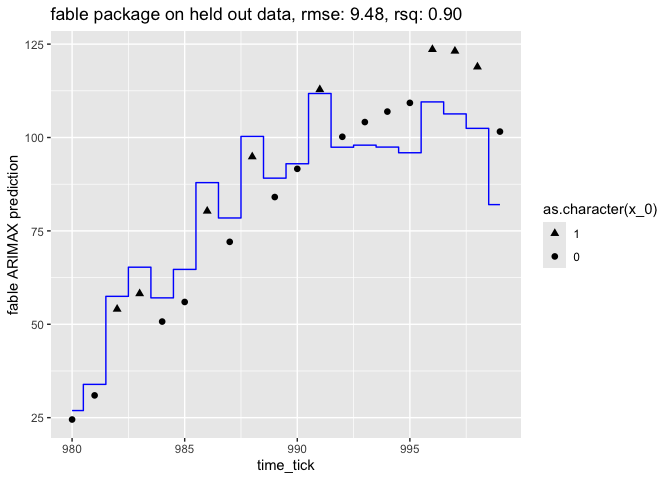
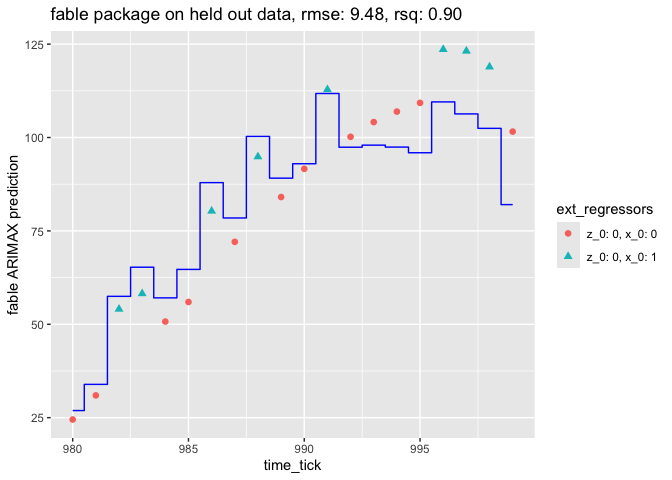
more ARIMA notes

diff --git a/TimeSeries/ts_example.md b/TimeSeries/ts_example.md
@@ -73,7 +73,12 @@ General Fable formulation:
 B)<sup>d</sup> y<sub>t</sub> = c + (1 - θ<sub>1</sub> B - … -
 θ<sub>q</sub> B<sup>q</sup>) ε<sub>t</sub> </code>
 
-where <code>c = mean(1 - φ<sub>1</sub> - … - φ<sub>p</sub>)</code>.
+where <code>B</code> is the shift operator such that <code>B
+u<sub>t</sub> = u<sub>t-1</sub></code>, and <code>c = mean(1 -
+φ<sub>1</sub> - … - φ<sub>p</sub>)</code>. We solve for
+<code>ε<sub>t</sub></code> being small. We very much prefer calling the
+<code>ε<sub>t</sub></code> “the external shocks”, and not calling them
+“errors.”
 
 In our `pdq(2, 0, 2)` case this specializes to:
 
@@ -81,13 +86,13 @@ In our `pdq(2, 0, 2)` case this specializes to:
 y<sub>t</sub> = c + (1 - θ<sub>1</sub> B - θ<sub>2</sub> B<sup>2</sup>)
 ε<sub>t</sub> </code>
 
-And knowing this is “regression with ARIMA residuals” when we add the
+And knowing this is “regression with ARIMA residuals”, when we add the
 external regressors this should be:
 
 <code> (1 - φ<sub>1</sub> B - φ<sub>2</sub> B<sup>2</sup>)</sup>
-(y<sub>t</sub> - β<sub>0</sub> - β<sub>x</sub> x - β<sub>z</sub> z) =
-c + (1 - θ<sub>1</sub> B - θ<sub>2</sub> B<sup>2</sup>) ε<sub>t</sub>
-</code>
+(y<sub>t</sub> - β<sub>0</sub> - β<sub>x</sub> x<sub>t</sub> -
+β<sub>z</sub> z<sub>t</sub>) = c + (1 - θ<sub>1</sub> B - θ<sub>2</sub>
+B<sup>2</sup>) ε<sub>t</sub> </code>
 
 Given the `pdq(2, 0, 2)` specification, the modeling system then fits
 for <code>φ, β, θ</code>. Note: I agree with the Prophet authors that
@@ -104,13 +109,13 @@ recurrence equations (i.e. taking that choice out of our hands). We can
 specify modeling the total, but not unobserved sub-populations of the
 system.
 
-Frankly ARIMAX/SARIMAX appears to be a false path for business modelers.
-Time series research didn’t actually stop at or actually consolidate on
-this terminology. Instead, transfer function methods and other more
-further developed systems are studied. Roughly: the scientific community
-is well served by ARIMAX. The research community moved on from ARIMAX.
-And, the business community *wishes* ARIMAX was in fact the dominant
-method, as it is the dominant software offered.
+Frankly ARIMAX/SARIMAX can be a false path for business modelers. Time
+series research didn’t actually stop at or actually consolidate on this
+terminology. Instead, transfer function methods and other more further
+developed systems are studied. Roughly: the scientific community is well
+served by ARIMAX. The research community moved on from ARIMAX. And, the
+business community *wishes* ARIMAX was in fact the dominant method, as
+it is the dominant software offered.
 
 An odd point in this direction is: ARIMA prediction of tides. In fact
 tides are formed by external regressors: the gravitational attraction of
@@ -205,8 +210,7 @@ rmse <- sqrt(mean((d_test[['y']] - d_test[['fable ARIMAX prediction']])**2))
     mapping=aes(x=time_tick)
   )
   + geom_step(mapping=aes(y=`fable ARIMAX prediction`), direction='mid', color='blue')
-  + geom_point(mapping=aes(y=y, shape=as.character(x_0)), size=2)
-  + guides(shape = guide_legend(reverse=TRUE))
+  + geom_point(mapping=aes(y=y, shape=ext_regressors, color=ext_regressors), size=2)
   + ggtitle(paste0("fable package on held out data, rmse: ", 
     sprintf('%.2f', rmse), ', rsq: ', sprintf('%.2f', rsq)))
 ) 
@@ -272,8 +276,7 @@ rmse <- sqrt(mean((d_test[['y']] - d_test[['forecast ARIMAX']])**2))
     mapping=aes(x=time_tick)
   )
   + geom_step(mapping=aes(y=`forecast ARIMAX`), direction='mid', color='blue')
-  + geom_point(mapping=aes(y=y, shape=as.character(x_0)), size=2)
-  + guides(shape = guide_legend(reverse=TRUE))
+  + geom_point(mapping=aes(y=y, shape=ext_regressors, color=ext_regressors), size=2)
   + ggtitle(paste0(
     "forecast package on held out data, rmse: ", 
     sprintf('%.2f', rmse), ', rsq: ', sprintf('%.2f', rsq)))
